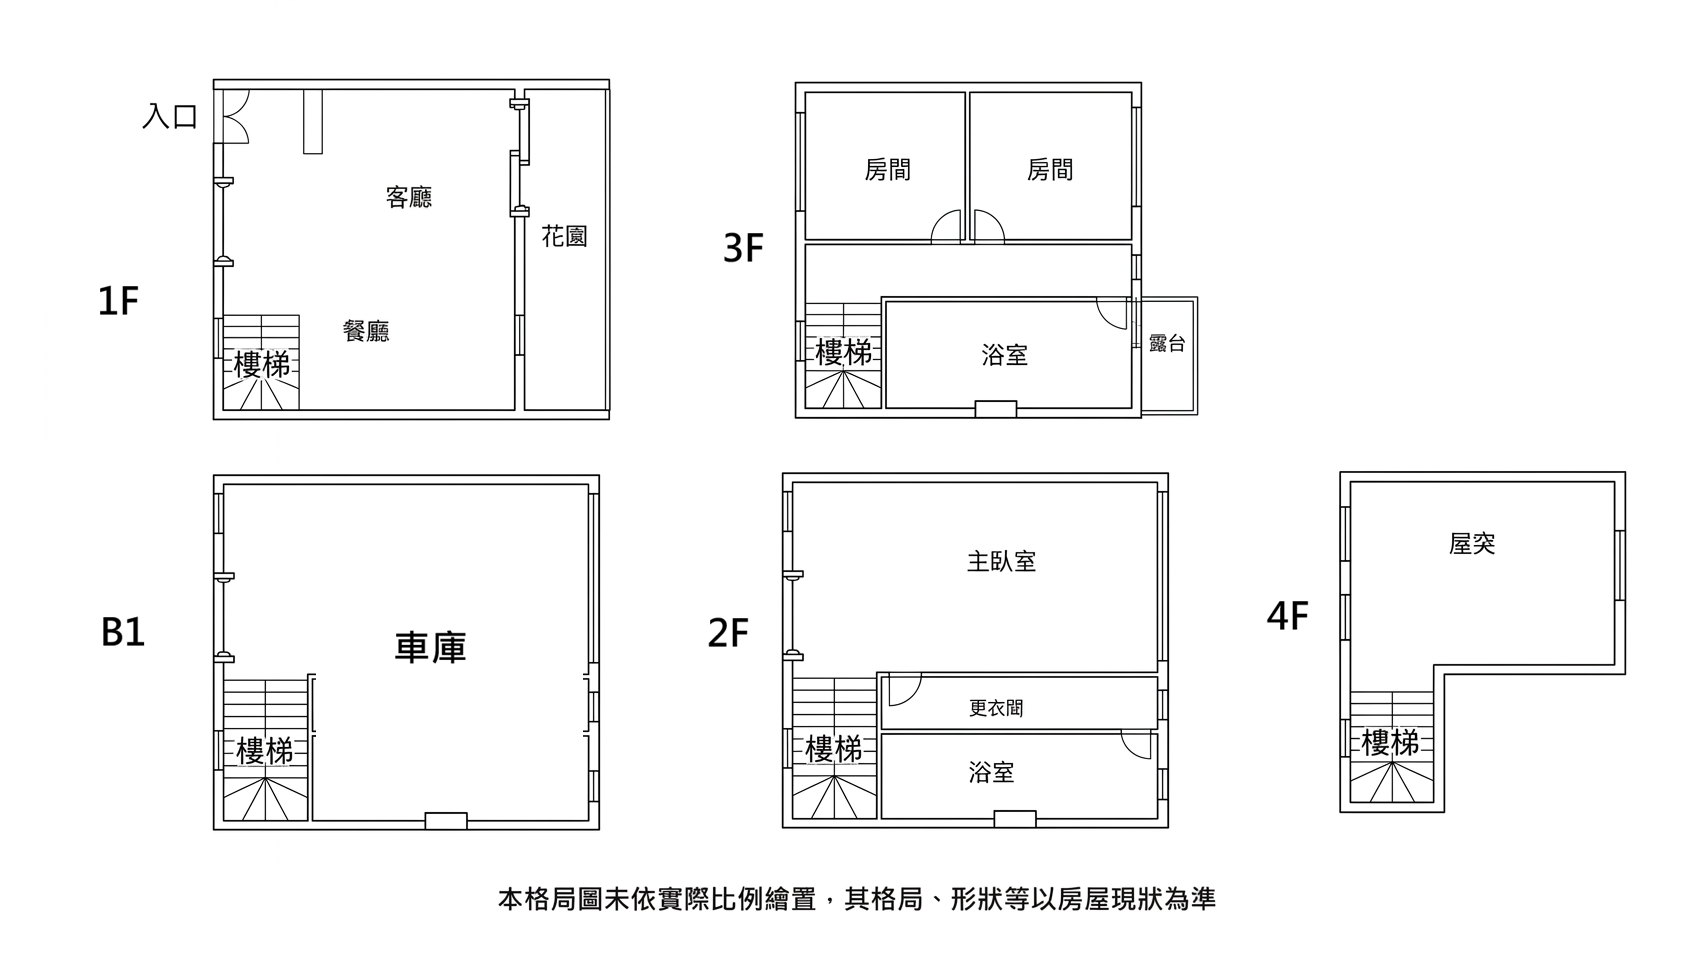
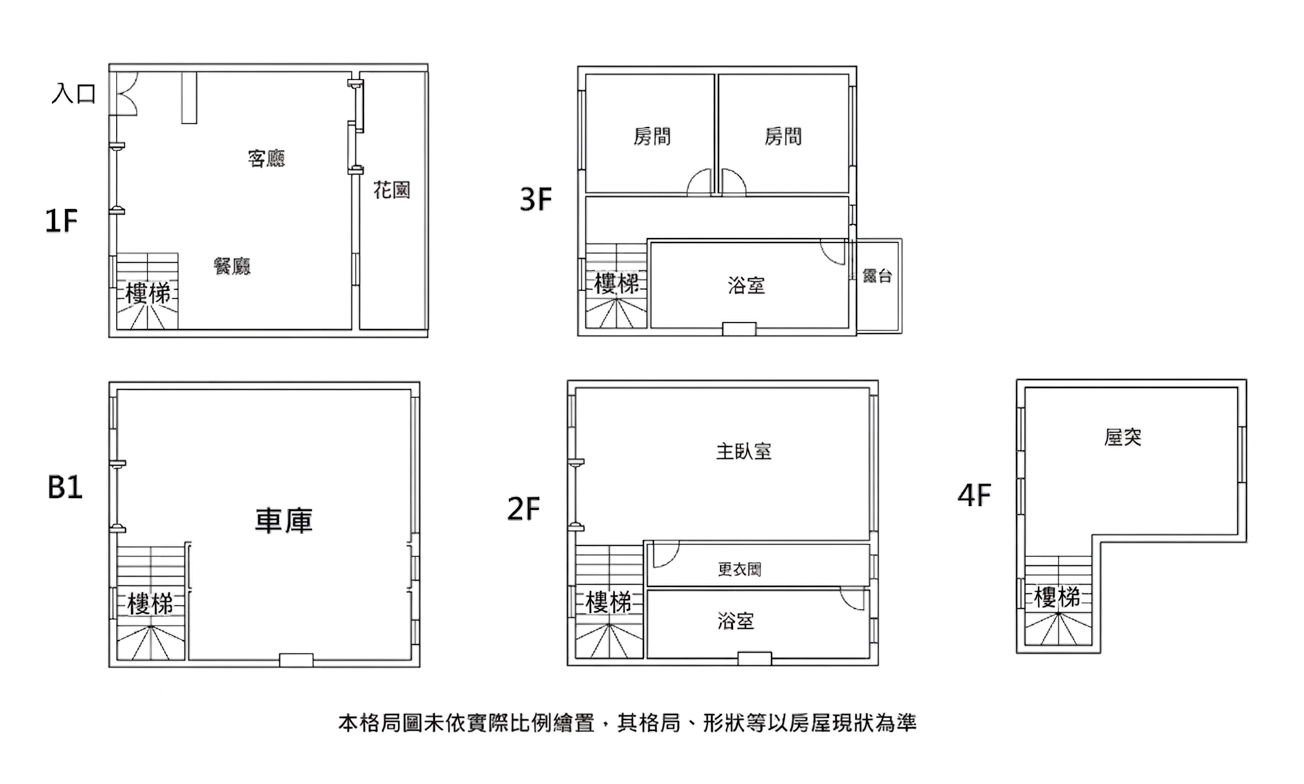
A19五房透天

diff --git a/259/index.html b/259/index.html
@@ -600,7 +600,7 @@ body.book #toc,body.book #preamble,body.book h1.sect0,body.book .sect1>h2{page-b
 <tr>
 <td class="tableblock halign-left valign-top"><p class="tableblock">坪數</p></td>
 <td class="tableblock halign-left valign-top"><div class="content"><div class="paragraph">
-<p>總:53.91 (主:46.44 附:2.07 公:5.4) 土地:17.89</p>
+<p>總:53.91 (主:46.44 附:2.07 公:5.4) 土地:17.90</p>
 </div></div></td>
 </tr>
 <tr>
@@ -775,6 +775,7 @@ body.book #toc,body.book #preamble,body.book h1.sect0,body.book .sect1>h2{page-b
 <div class="content">
 <img src="images/a101.jpg" alt="一樓客廳 2">
 </div>
+<div class="title">Figure 1. AI清理雜物</div>
 </div>
 </div>
 </div>
@@ -792,6 +793,7 @@ body.book #toc,body.book #preamble,body.book h1.sect0,body.book .sect1>h2{page-b
 <div class="content">
 <img src="images/a111.jpg" alt="一樓餐廳 2">
 </div>
+<div class="title">Figure 2. AI清理雜物</div>
 </div>
 </div>
 </div>
@@ -976,7 +978,7 @@ body.book #toc,body.book #preamble,body.book h1.sect0,body.book .sect1>h2{page-b
 </div>
 <div id="footer">
 <div id="footer-text">
-Last updated 2026-05-12 09:12:40 +0800
+Last updated 2026-05-15 17:31:09 +0800
 </div>
 </div>
 <script>
